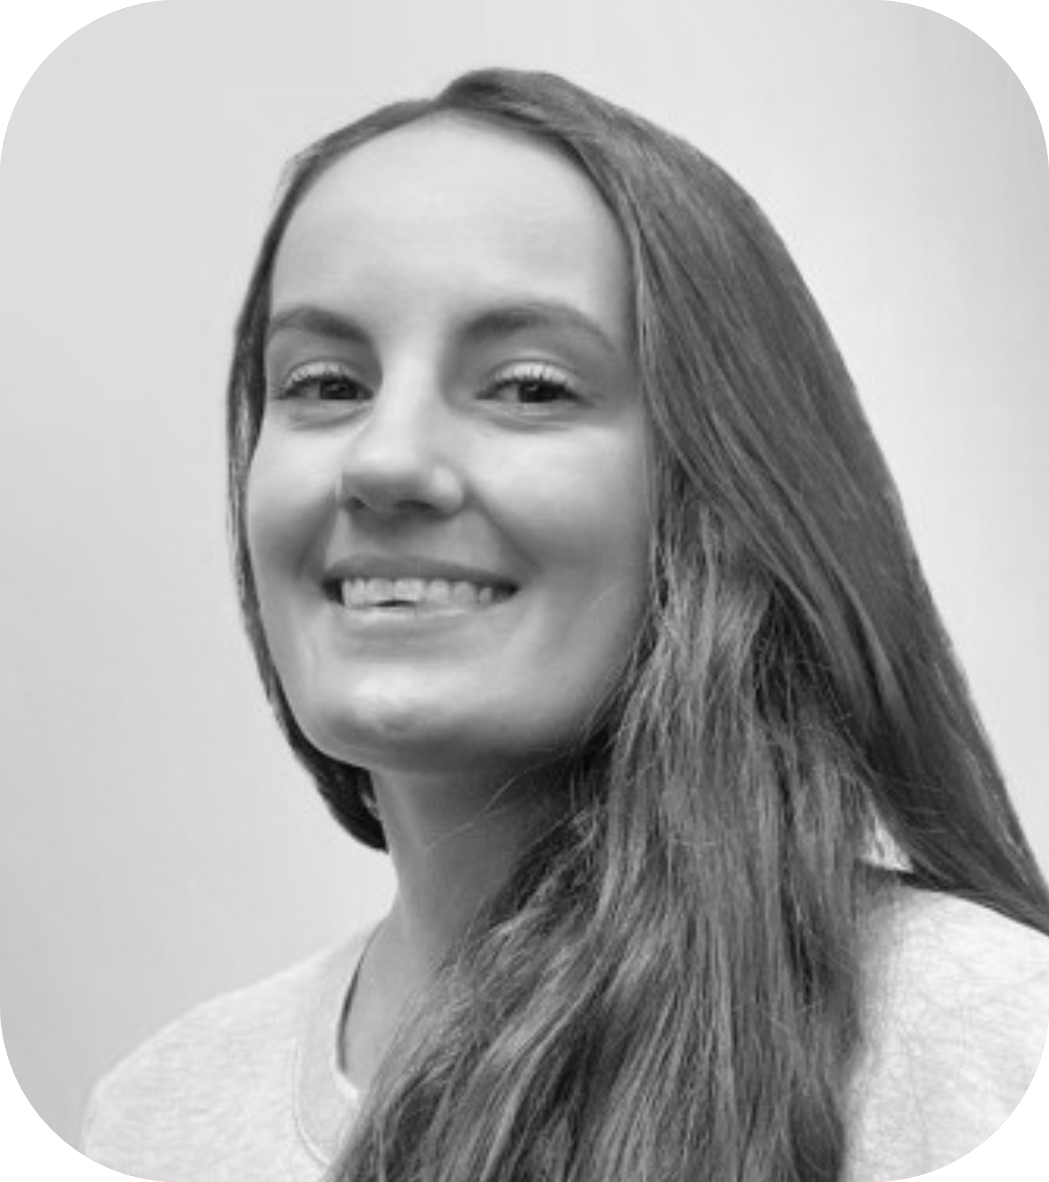
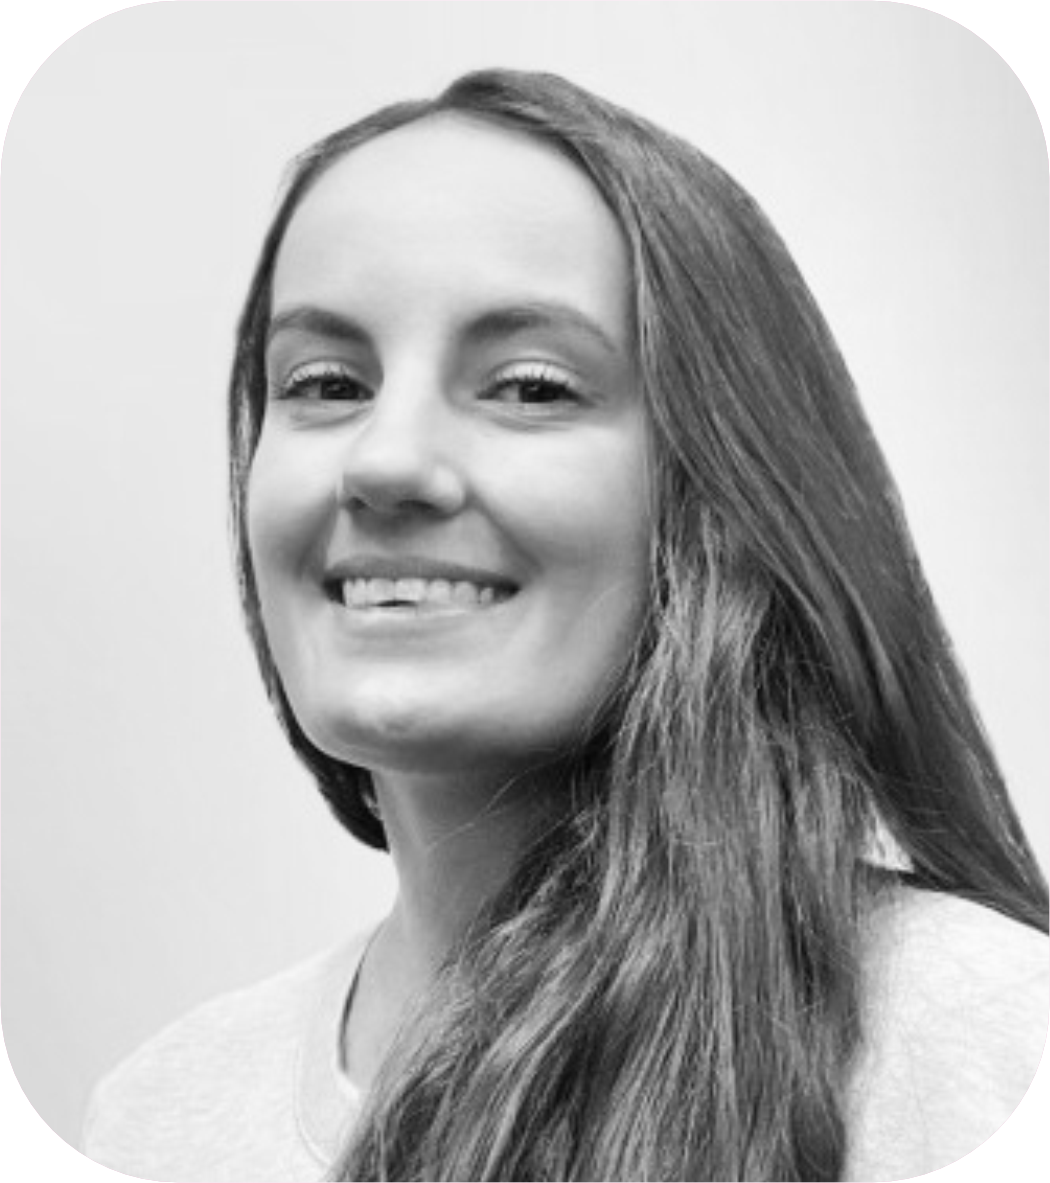
Replace About page portrait and make it smaller

diff --git a/components/AboutPageContent.tsx b/components/AboutPageContent.tsx
@@ -78,7 +78,7 @@ export default function AboutPageContent({ locale }: AboutPageContentProps) {
           <Image
             src={portrait}
             alt="Barbora Vašíčková"
-            sizes="(max-width: 959px) 0px, 260px"
+            sizes="(max-width: 959px) 0px, 200px"
             quality={95}
           />
         </Reveal>

diff --git a/app/globals.css b/app/globals.css
@@ -1048,7 +1048,7 @@ p {
 @media (min-width: 960px) {
   .content-section.about-page-section {
     display: grid;
-    grid-template-columns: minmax(0, 52rem) clamp(200px, 18vw, 260px);
+    grid-template-columns: minmax(0, 52rem) clamp(160px, 14vw, 200px);
     gap: clamp(3rem, 6vw, 6rem);
     align-items: start;
     max-width: none;
